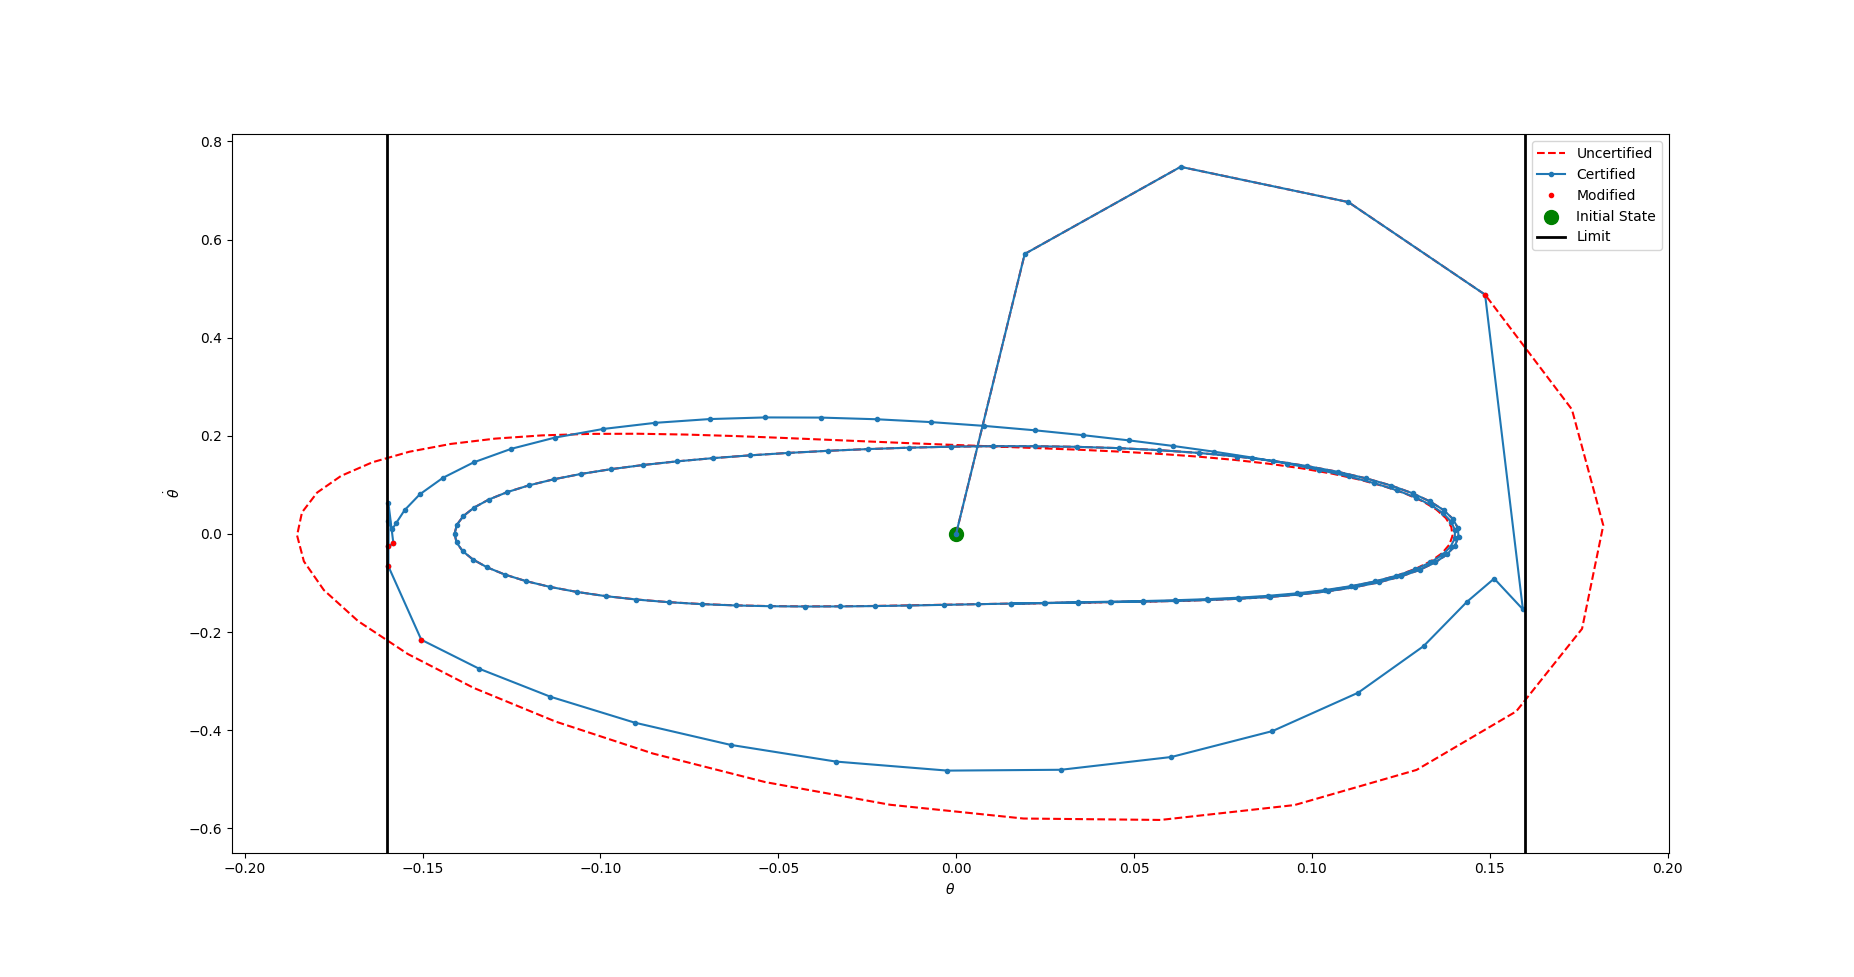
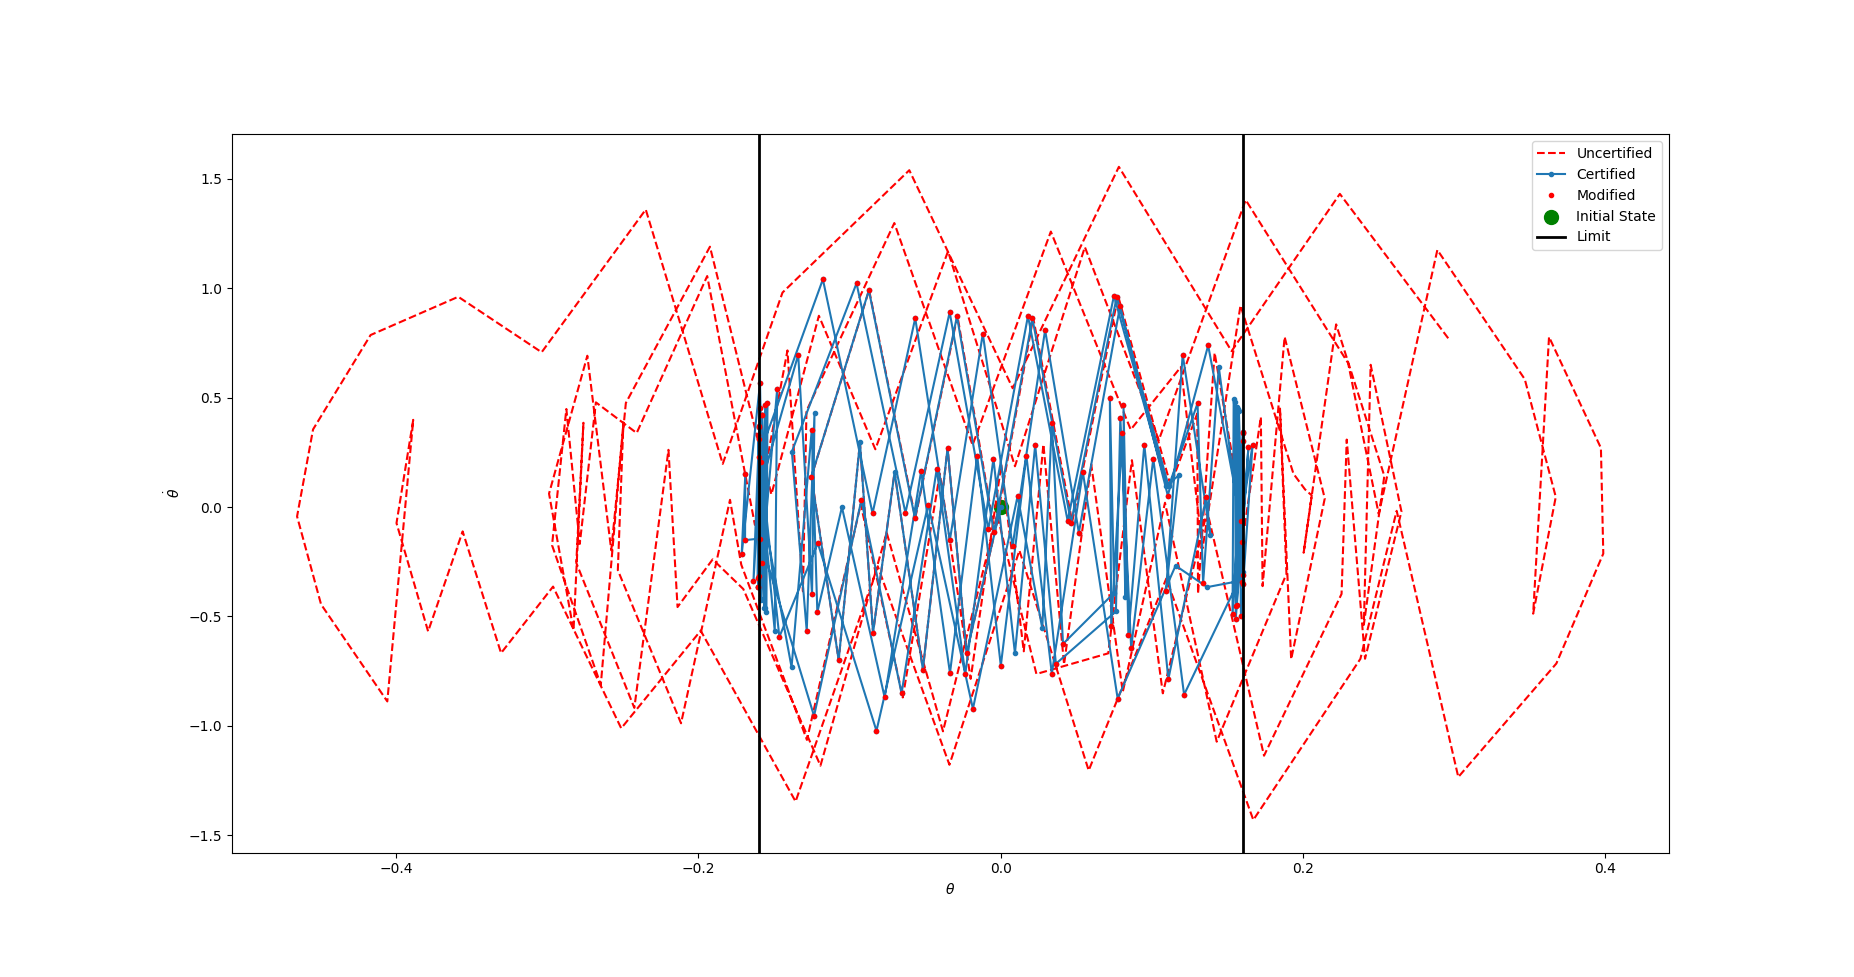
improved adv_reward(), fixed bugs popping up in , robustified the mpsc

diff --git a/safe_control_gym/controllers/ppo/ppo.py b/safe_control_gym/controllers/ppo/ppo.py
@@ -37,10 +37,10 @@ class PPO(BaseController):
                  training=True,
                  checkpoint_path='model_latest.pt',
                  output_dir='temp',
-                 use_gpu=False,
+                 use_gpu=True,
                  seed=0,
                  **kwargs):
-        self.filter_train_actions = False
+        self.filter_train_actions = True
         self.penalize_sf_diff = False
         self.sf_penalty = 1
         self.use_safe_reset = False
@@ -290,18 +290,24 @@ class PPO(BaseController):
                 action, v, logp = self.agent.ac.step(torch.FloatTensor(obs).to(self.device))
                 unsafe_action = action
 
+            action_np = np.array(action, copy=False).reshape(self.rollout_batch_size, -1)
+
             # Adding safety filter
             success = False
             if self.safety_filter is not None and (self.filter_train_actions is True or self.penalize_sf_diff is True):
-                physical_action = self.env.envs[0].denormalize_action(action)
+                uncertified = action_np[0, :].copy()
+                # physical_action = self.env.envs[0].denormalize_action(action)
+                physical_action = self.env.envs[0].denormalize_action(uncertified)
                 unextended_obs = np.squeeze(obs)[:self.env.envs[0].symbolic.nx]
                 certified_action, success = self.safety_filter.certify_action(unextended_obs, physical_action, info)
                 if success and self.filter_train_actions is True:
-                    action = self.env.envs[0].normalize_action(certified_action)
+                    # action = self.env.envs[0].normalize_action(certified_action)
+                    action_np[0, :] = self.env.envs[0].normalize_action(np.atleast_1d(certified_action))
                 elif not success and self.safety_filter.use_acados:
                     self.safety_filter.ocp_solver.reset()
 
-            action = np.atleast_2d(np.squeeze([action])).reshape((self.rollout_batch_size, -1))
+            action = action_np
+            # action = np.atleast_2d(np.squeeze([action])).reshape((self.rollout_batch_size, -1))
             next_obs, rew, done, info = self.env.step(action)
             if done[0] and self.use_safe_reset:
                 prev_info = info['n'][0]
@@ -441,162 +447,66 @@ class PPO(BaseController):
         return obs, info
 
     def adversarial_reward(self, obs, next_obs, action, info):
-        '''Computes the adversarial reward.
+        '''Adversarial reward shaped to push the system toward constraint boundaries,
+        batch-safe and numerically stable. Returns shape (batch,).'''
+        # Ensure 2D shapes
+        next_obs_b = np.atleast_2d(next_obs)
+        obs_b = np.atleast_2d(obs)
+        act_b = np.atleast_2d(action)
+        B = next_obs_b.shape[0]
 
-        Args:
-            obs (ndarray): The observation at this timestep.
-            next_obs (ndarray): The next observation after taking the action.
-            action (ndarray): The action taken at this timestep.
-            info (dict): The info at this timestep.
+        adv_rew = np.zeros(B, dtype=np.float32)
 
-        Returns:
-            rew (ndarray): The adversarial reward (shape: (batch_size,))
-        '''
-        # Get batch size from next_obs
-        batch_size = next_obs.shape[0] if len(next_obs.shape) > 1 else 1
+        # Per-env infos (VecEnv packs them in info['n'])
+        infos = info.get('n', [info] * B) if isinstance(info, dict) else [dict()] * B
 
-        # Initialize adversarial reward array
-        adv_rew = np.zeros(batch_size, dtype=np.float32)
+        for i in range(B):
+            s_prev = obs_b[i]
+            s = next_obs_b[i]
+            a = act_b[i]
 
-        # For cartpole: next_obs is [x, x_dot, theta, theta_dot]
-        # For quadrotor_2D: next_obs is [x, x_dot, z, z_dot, theta, theta_dot]
-        # For quadrotor_3D: next_obs is [x, y, z, x_dot, y_dot, z_dot, phi, theta, psi, p, q, r]
-
-        for i in range(batch_size):
-            # Extract state for this batch element
-            state = next_obs[i] if batch_size > 1 else next_obs
-
-            # Get constraint violation info if available
-            violation = 0.0
-            if 'n' in info and i < len(info['n']):
-                episode_info = info['n'][i]
-                if isinstance(episode_info, dict) and 'constraint_violation' in episode_info:
-                    violation = float(episode_info['constraint_violation'])
-
-            # Reward components for breaking the system:
-
-            # 1. Heavily reward constraint violations (main goal)
-            violation_reward = 10000.0 * violation
-
-            if violation > 1:
-                violation_reward *= (violation ** 2)  # Exponential scaling for larger violations
-
-            # 2. Reward for high angular velocity (unstable/dangerous)
-            # For cartpole: theta_dot is at index 3
-            # For quadrotor: angular velocities are at indices 5, 7, 9
-            if len(state) == 4:  # Cartpole
-                x = state[0]
-                x_dot = state[1]
-                theta = state[2]
-                theta_dot = state[3]
-                # Reward for large angle
-                angle_reward = 5000.0 * abs(theta)
-                # Reward for high angular velocity
-                velocity_reward = 3000.0 * abs(theta_dot)
-                # Reward for position extremes (push cart to limits)
-                position_reward = 1000.0 * (abs(x) ** 2)
-                # Reward for high cart velocity
-                cart_velocity_reward = 500.0 * (abs(x_dot) ** 2)
-                # BONUS: Combine angle and angular velocity for maximum chaos
-                chaos_bonus = 2000.0 * abs(theta) * abs(theta_dot)
-
-            else:  # Quadrotor or other system
-                if len(state) >= 6:
-                    # Position
-                    x, y, z = state[0], state[1], state[2]
-                    # Orientation
-                    phi, theta, psi = state[3], state[4], state[5]
-                    # Angular velocities
-                    if len(state) >= 9:
-                        p, q, r = state[6], state[7], state[8]
-                    else:
-                        p = q = r = 0
-
-                    # Exponentially reward extreme orientations
-                    angle_reward = 5000.0 * (abs(phi) ** 3 + abs(theta) ** 3 + abs(psi) ** 3)
-
-                    # Exponentially reward high angular velocities
-                    velocity_reward = 3000.0 * (abs(p) ** 2 + abs(q) ** 2 + abs(r) ** 2)
-
-                    # Reward extreme positions
-                    position_reward = 1000.0 * (abs(x) ** 2 + abs(y) ** 2 + abs(z) ** 2)
-
-                    # Combined chaos (unstable flight)
-                    chaos_bonus = 2000.0 * (abs(phi) * abs(p) + abs(theta) * abs(q))
-
-                    cart_velocity_reward = 0.0
-                else:
-                    angle_reward = velocity_reward = position_reward = 0.0
-                    chaos_bonus = cart_velocity_reward = 0.0
-
-            # 3. Reward for being close to constraint boundaries
-            # Typical cartpole constraint: |theta| < 0.2 rad
-            boundary_proximity = 0.0
-            if len(state) == 4:  # Cartpole
-                theta = state[2]
-                theta_limit = 0.2  # typical constraint
-                # Exponential reward as we approach boundary
-                proximity_ratio = abs(theta) / theta_limit
-                if proximity_ratio > 0.5:
-                    # Exponential growth near boundary
-                    boundary_proximity = 3000.0 * (proximity_ratio ** 4)
-
-                # HUGE bonus for exceeding the boundary
-                if abs(theta) > theta_limit:
-                    boundary_proximity += 8000.0 * (abs(theta) - theta_limit) ** 2
-
-            # 4. Reward for MAXIMUM state changes (chaos)
-            if i < len(obs):
-                prev_state = obs[i] if batch_size > 1 else obs
-                state_change = np.linalg.norm(state - prev_state)
-                # Quadratic reward for large changes
-                change_reward = 1000.0 * (state_change ** 2)
+            # Base proximity: encourage large angle/tilt and angular rates.
+            if s.shape[0] == 4:  # cartpole: [x, x_dot, theta, theta_dot]
+                x, xdot, th, thdot = s
+                prox = 10000.0 * abs(th) + 1000.0 * abs(thdot) + 100.0 * abs(x) + 250.0 * abs(xdot)
+                # encourage state change (chaos)
+                delta = np.linalg.norm(s - s_prev)
+                # soft boundary shaping near theta limit
+                theta_lim = 0.2
+                try:
+                    theta_lim = float(self.env.envs[0].constraints.constraints[0].upper_bounds[2])  # type: ignore
+                except Exception:
+                    pass
+                ratio = min(abs(th) / max(theta_lim, 1e-3), 3.0)
+                boundary_bonus = 5000.0 * (ratio ** 2)
             else:
-                change_reward = 0.0
+                # generic fallback (e.g., quadrotor)
+                prox = 0.25 * np.linalg.norm(s)
+                delta = 0.5 * np.linalg.norm(s - s_prev)
+                boundary_bonus = 0.0
 
-            # 5. MAXIMUM reward for aggressive actions
-            act = action[i] if batch_size > 1 else action
-            action_magnitude = np.linalg.norm(act)
-            # Exponential reward for extreme actions
-            action_reward = 2000.0 * (action_magnitude ** 3)
+            # Aggressive action bonus
+            act_bonus = 56.5 * np.linalg.norm(a)
 
-            # 6. PENALTY for safe, stable behavior (negative reward)
-            # We want to punish the agent for being safe
-            stability_penalty = 0.0
-            if len(state) == 4:  # Cartpole
-                theta = state[2]
-                theta_dot = state[3]
-                # If angle is small and angular velocity is low, penalize heavily
-                if abs(theta) < 0.05 and abs(theta_dot) < 0.1:
-                    stability_penalty = -5000.0  # Large negative reward for stability
+            # Actual constraint violation if provided
+            vio = 0.0
+            try:
+                vio = float(infos[i].get('constraint_violation', 0.0))
+            except Exception:
+                vio = 0.0
+            vio_bonus = 200.0 * vio  # bounded
 
-            # 7. BONUS for sustained dangerous behavior
-            # Reward cumulative danger over the episode
-            danger_accumulation = 0.0
-            if 'n' in info and i < len(info['n']):
-                episode_info = info['n'][i]
-                if isinstance(episode_info, dict):
-                    # Track episode step to give increasing rewards for sustained chaos
-                    if 'current_step' in episode_info:
-                        step = episode_info['current_step']
-                        # Reward for surviving longer in dangerous state
-                        if len(state) == 4 and abs(state[2]) > 0.1:
-                            danger_accumulation = 500.0 * step * abs(state[2])
+            # Penalize hard terminations to avoid ultra-short episodes
+            term_pen = 0.0
+            try:
+                ti = infos[i].get('terminal_info', {})
+                if ti and not ti.get('TimeLimit.truncated', False):
+                    term_pen = -1000.0
+            except Exception:
+                pass
 
-            # 8. CATASTROPHIC FAILURE BONUS
-            # If system has truly failed (episode terminated), give massive bonus
-            termination_bonus = 0.0
-            if 'n' in info and i < len(info['n']):
-                episode_info = info['n'][i]
-                if isinstance(episode_info, dict) and 'terminal_info' in episode_info:
-                    terminal_info = episode_info['terminal_info']
-                    # Check if terminated due to constraint violation (not time limit)
-                    if not terminal_info.get('TimeLimit.truncated', False):
-                        termination_bonus = 50000.0  # MASSIVE bonus for causing failure
-
-            adv_rew[i] = (violation_reward + angle_reward + velocity_reward + boundary_proximity + chaos_bonus + change_reward + action_reward + position_reward + cart_velocity_reward + danger_accumulation + stability_penalty + termination_bonus)
-
-            # Add small epsilon to ensure non-zero reward
-            adv_rew[i] += 1e-3
+            # Combine and clip for stability
+            r = prox + boundary_bonus + delta + act_bonus + vio_bonus + term_pen
+            adv_rew[i] = float(np.clip(r, -100.0, 100.0))
 
         return adv_rew

diff --git a/experiments/adversarial/adv_experiment.py b/experiments/adversarial/adv_experiment.py
@@ -45,8 +45,8 @@ def run(plot=True, curr_path='.'):
         # Load state_dict from trained.
         model_dir = os.path.dirname(os.path.abspath(__file__)) + '/models'
         task = 'stab' if config.task_config.task == Task.STABILIZATION else 'track'
-        ctrl.load(os.path.join(model_dir, f'{config.algo}_model_{system}_{task}.pt'))
-        # ctrl.load(os.path.join(model_dir, f'rl_models/{system}/{task}/{config.algo}/model_latest.pt'))
+        # ctrl.load(os.path.join(model_dir, f'{config.algo}_model_{system}_{task}.pt')) # example ppo
+        ctrl.load(os.path.join(model_dir, f'rl_models/{system}/{task}/{config.algo}/model_latest.pt'))  # latest trained model
 
     # Run without safety filter
     experiment = BaseExperiment(env, ctrl)
